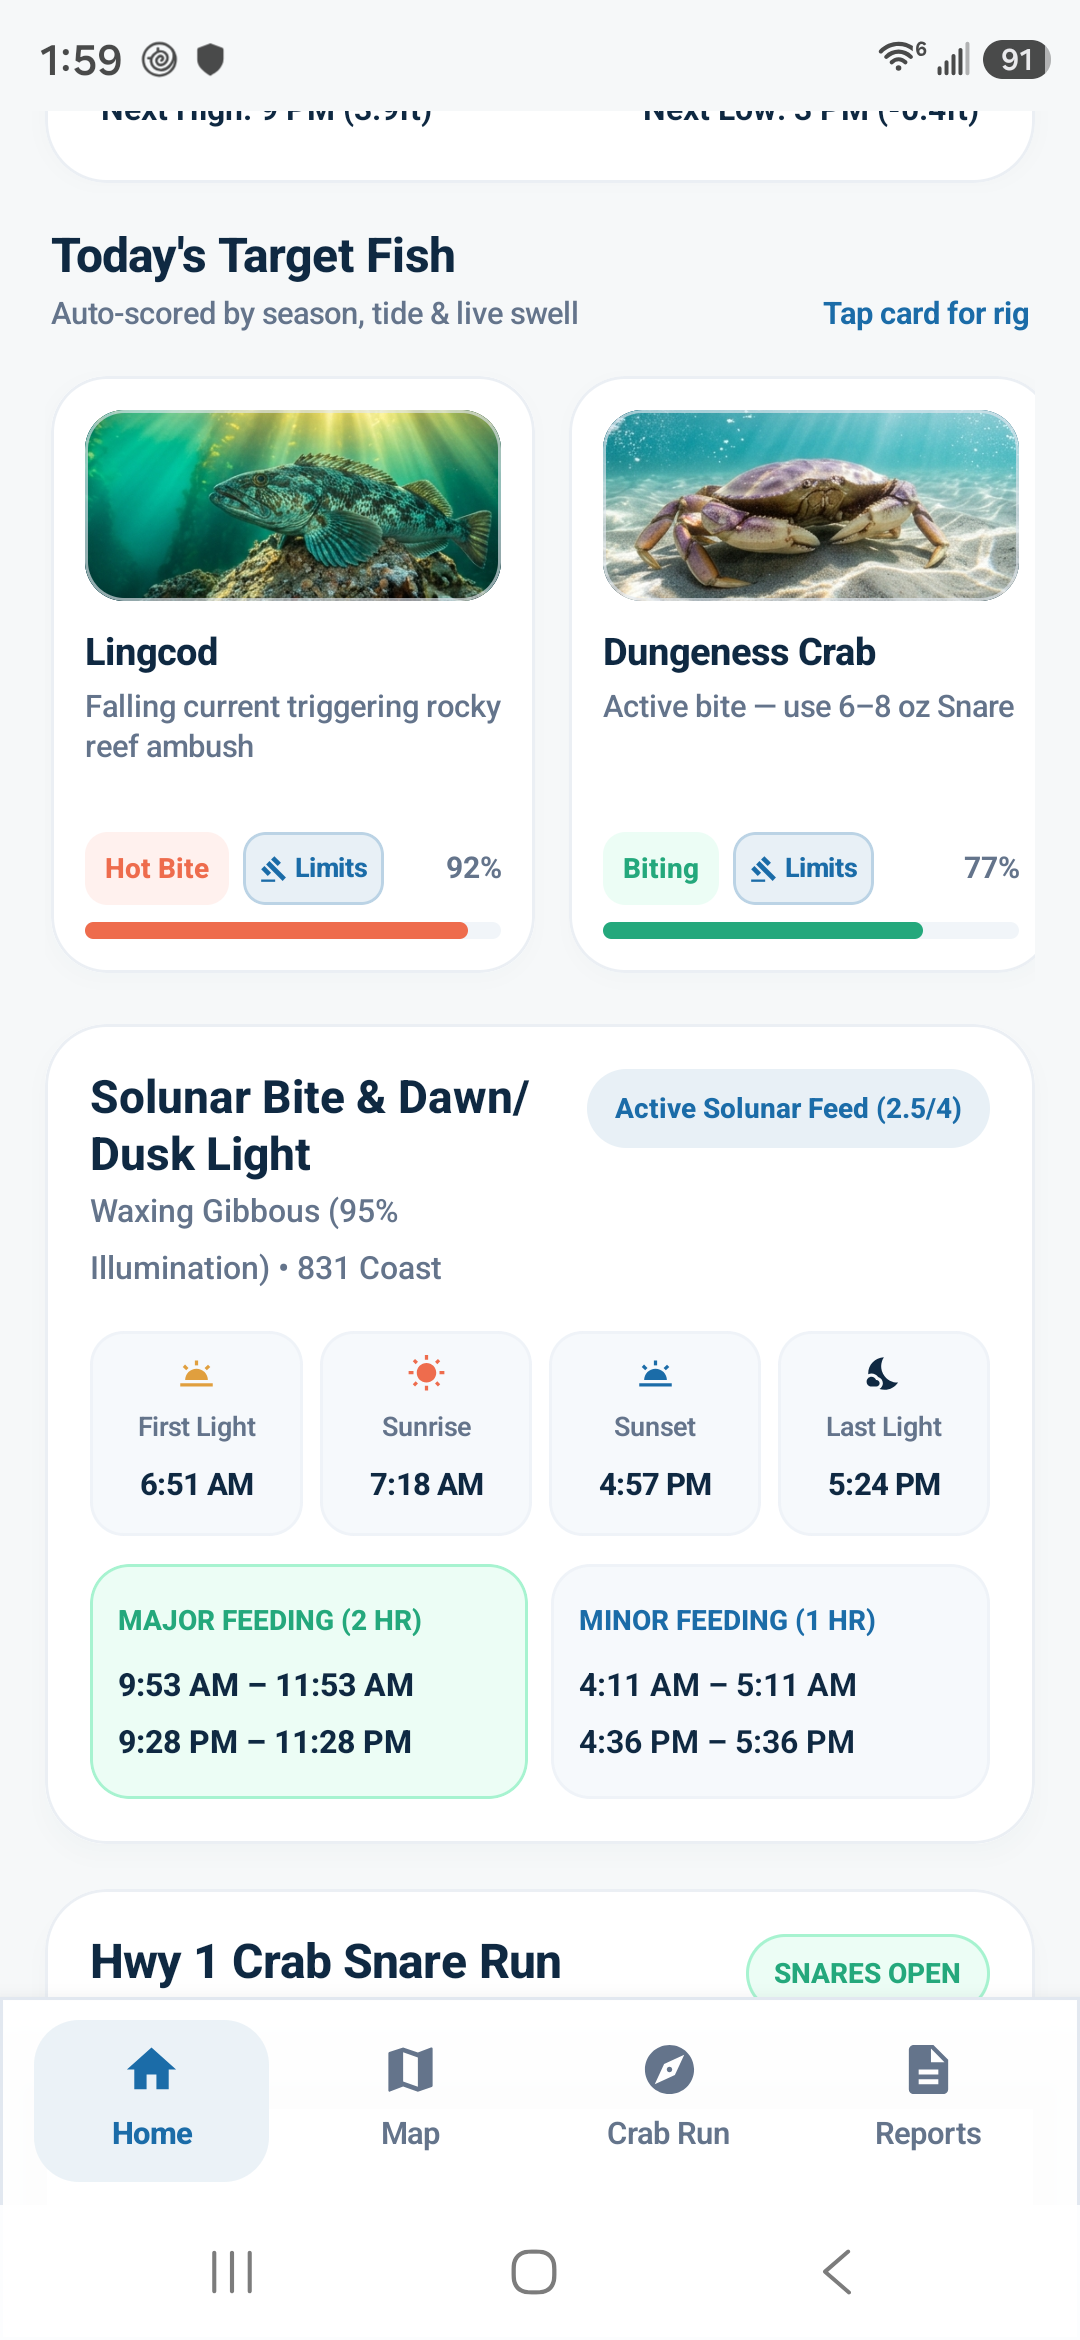
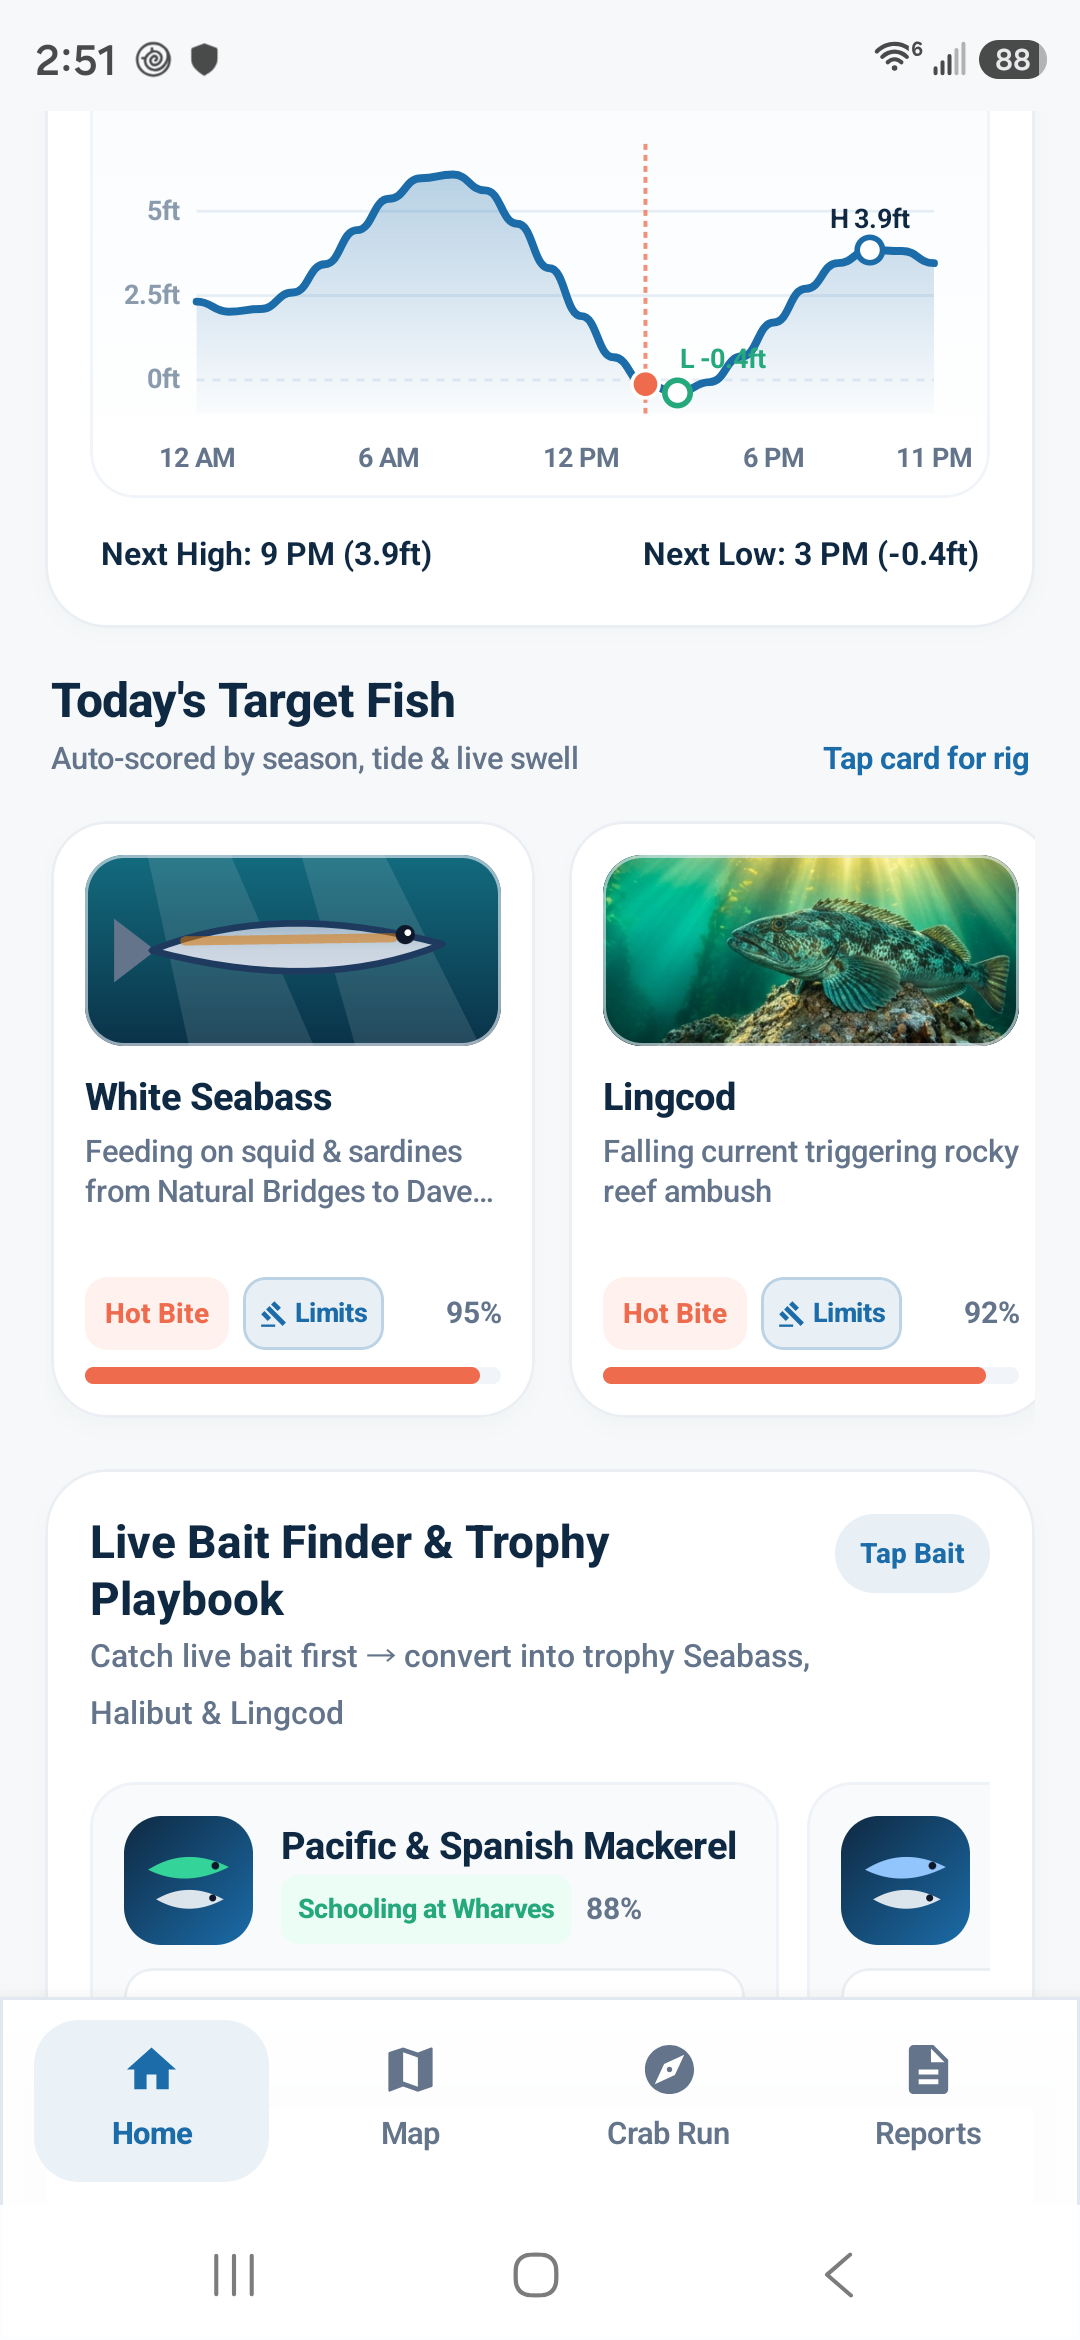
Add 12 target species & Live Bait Finder Playbook to website

diff --git a/index.html b/index.html
@@ -189,15 +189,15 @@
           </p>
         </div>
 
-        <!-- Screen 2: Solunar & Legal Rules -->
+        <!-- Screen 2: Live Bait Finder & 12 Species -->
         <div class="flex flex-col items-center text-center">
           <div class="phone-mockup w-[225px] mb-5">
-            <img src="assets/screenshot-solunar.png" onerror="this.src='assets/screenshot-home.png'" alt="Solunar & Legal Limits" class="w-full h-auto block" />
+            <img src="assets/screenshot-solunar.png" onerror="this.src='assets/screenshot-home.png'" alt="12 Species & Live Bait Finder" class="w-full h-auto block" />
           </div>
-          <span class="px-3 py-1 rounded-full text-[11px] font-extrabold uppercase bg-purple-50 text-purple-800 mb-2">Home &bull; Solunar &amp; Regs</span>
-          <h3 class="font-display text-base font-extrabold text-coast-navy">Solunar Bite &amp; CDFW Limits</h3>
+          <span class="px-3 py-1 rounded-full text-[11px] font-extrabold uppercase bg-purple-50 text-purple-800 mb-2">Home &bull; 12 Species &amp; Bait</span>
+          <h3 class="font-display text-base font-extrabold text-coast-navy">Live Bait Finder &amp; 12 Species</h3>
           <p class="text-xs text-slate-600 mt-1.5 leading-relaxed max-w-xs font-medium">
-            First Light, Sunrise, Sunset, Last Light, Moon illumination %, 2-hour Major &amp; 1-hour Minor Solunar windows, plus full CDFW size &amp; bag limit popups.
+            Auto-scores 12 local prize species (White Seabass, Stripers, Lingcod, Halibut, Crab, Bluefin, Salmon) + a <strong>Live Bait Finder &amp; Trophy Conversion Playbook</strong>.
           </p>
         </div>
 
@@ -283,10 +283,23 @@
             ⚖
           </div>
           <h3 class="font-display text-xl font-extrabold text-coast-navy mb-2">
-            1-Tap CDFW Legal Limits, Sizes &amp; Sub-Species Popups
+            12 Scored Species + 1-Tap CDFW Legal Limits Popups
           </h3>
           <p class="text-sm text-slate-600 leading-relaxed font-medium">
-            Tap the <strong>Limits</strong> pill next to any species bite badge to view an instant CDFW regulation popup: exact minimum carapace/total lengths (<code>5.75"</code> Dungeness vs. <code>4.25"</code> Rock Crab, <code>22"</code> Halibut &amp; Lingcod, <code>15"</code> Cabezon), daily bag limits, prohibited zero-take rockfish, and sub-limits.
+            Scores <strong>Dungeness Crab, White Seabass, Lingcod, Halibut, Striped Bass, Surfperch, Rockfish, Cabezon, Monkeyface Eel, Bonito, Bluefin &amp; King Salmon</strong>. Tap <strong>Limits</strong> next to any bite badge for exact CDFW minimum sizes, bag limits, toxic roe alerts, and sub-limits.
+          </p>
+        </div>
+
+        <!-- Feature 3B: Live Bait Finder -->
+        <div class="daylight-card p-7">
+          <div class="w-12 h-12 rounded-2xl bg-sky-50 text-coast-ocean flex items-center justify-center font-extrabold text-xl mb-4">
+            🐟
+          </div>
+          <h3 class="font-display text-xl font-extrabold text-coast-navy mb-2">
+            Live Bait Finder &amp; Trophy Conversion Playbook
+          </h3>
+          <p class="text-sm text-slate-600 leading-relaxed font-medium">
+            Want to catch live bait first to land a monster? Tracks <strong>Mackerel, Anchovy/Sardine, Jacksmelt, Sand Crabs, Shiner Perch, and Market Squid</strong>—showing where to catch them right now, what Sabiki/rake rig to use, and how to bridle or trap-rig them for trophy Seabass, Halibut, Stripers &amp; Lingcod.
           </p>
         </div>
 
